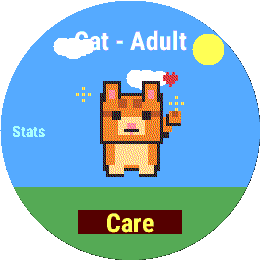
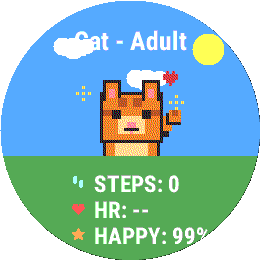
Pet page: replace Care button with live activity panel
- Bottom green panel shows STEPS / HR / HAPPY with icons (footprints, heart, star)
- Pet now stands on the panel; egg/death states show a 'Press START' prompt
- Care moved to the START button only; a tap flips to the Stats page
- Update help text and README pet-page screenshot

diff --git a/README.md b/README.md
@@ -6,7 +6,7 @@
 </p>
 
 <p align="center">
-  <img src="assets/screen_active1.png" width="240" alt="Garmigotchi pet on a Garmin fenix 7">
+  <img src="assets/screen_active5.png" width="240" alt="Garmigotchi pet with a live activity panel on a Garmin watch">
 </p>
 
 <p align="center">
@@ -22,7 +22,7 @@
 
 <table>
   <tr>
-    <td align="center"><img src="assets/screen_active1.png" width="200"><br><b>Pet</b><br><sub>Your pet, centered in a day/night world</sub></td>
+    <td align="center"><img src="assets/screen_active5.png" width="200"><br><b>Pet</b><br><sub>Your pet + a live activity panel (steps / HR / happy)</sub></td>
     <td align="center"><img src="assets/screen_active2.png" width="200"><br><b>Stats</b><br><sub>Five labeled needs, generation &amp; age</sub></td>
   </tr>
   <tr>